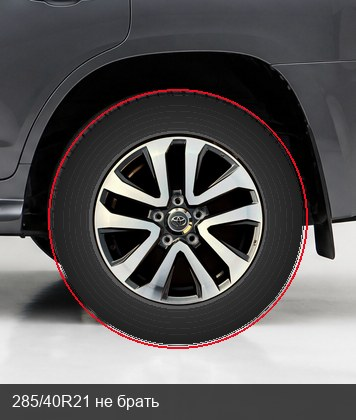
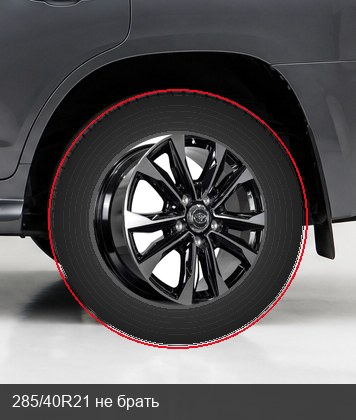
Show a real 21-inch Zumbo face on the LC200 instead of a darkened OEM 20.

Changed region(s): [[0.2472, 0.3095, 0.7416, 0.7429]]

diff --git a/index.html b/index.html
@@ -13,7 +13,7 @@
   <link rel="preconnect" href="https://fonts.googleapis.com">
   <link rel="preconnect" href="https://fonts.gstatic.com" crossorigin>
   <link href="https://fonts.googleapis.com/css2?family=Noto+Sans:wght@400;500;600;700&display=swap" rel="stylesheet">
-  <link rel="stylesheet" href="assets/css/style.css?v=11">
+  <link rel="stylesheet" href="assets/css/style.css?v=12">
 </head>
 <body>
   <a class="skip" href="#main">К содержанию</a>
@@ -112,7 +112,7 @@
           <p class="lead">Двадцать дюймов — штат. Двадцать один — заводская геометрия Lexus LX / части LC200: 8.5J и ET54, не широкая «таз». Боковина 275/50R21 короче завода всего на 5 мм. Для сравнения: 22″ 285/40 теряет 28 мм резины — на 2740 кг это уже жёсткий ход и риск пробоя.</p>
         </div>
         <div class="ba reveal" data-compare style="--pos: 52%">
-          <img class="ba__after" src="assets/img/lc200-compare-21.jpg" alt="Land Cruiser 200 на 21-дюймовых колёсах 275/50R21">
+          <img class="ba__after" src="assets/img/lc200-compare-21.jpg?v=12" alt="Land Cruiser 200 на дисках Zumbo 8.5J×21 и шинах 275/50R21">
           <div class="ba__clip">
             <img class="ba__before" src="assets/img/lc200-compare-20.png" alt="Land Cruiser 200 на штатных 20-дюймовых колёсах">
           </div>
@@ -137,7 +137,7 @@
             <figcaption class="compare__caption">
               <div class="tag">Цель</div>
               <h3>21″ лето</h3>
-              <p>8.5J×21 ET54 · 275/50R21 · диаметр 808 мм · боковина 137,5 мм</p>
+              <p>Zumbo 8.5J×21 · 275/50R21 · диаметр 808 мм · боковина 137,5 мм. Покупка: ET54, не ET45 с фото.</p>
             </figcaption>
           </figure>
         </div>
@@ -197,23 +197,23 @@
 
         <div class="fitment reveal" data-fitment>
           <div class="fitment__disk">
-            <img src="assets/img/stock21-275-50-wheel.jpg" alt="Диск 8.5J×21 ET54 на LC200, 275/50R21">
-            <p>Целевой диск: 8.5J×21 ET54 · 5×150 · DIA 110,1. Шины ниже — на нём. Красное кольцо на арке — контур заводских 285/50R20.</p>
+            <img src="assets/img/stock21-275-50-wheel.jpg?v=12" alt="Zumbo 8.5J×21 на LC200, 275/50R21">
+            <p>На фото — Zumbo Wheels 8.5J×21 5×150 DIA 110,1 (реальный диск 21″, не штатный 20″). Шины ниже — на нём. Красное кольцо — контур завода 285/50R20. Для покупки оставляем ET54, у этого Zumbo вылет ET45.</p>
           </div>
           <div class="fitment__stage">
             <figure class="fitment__car">
-              <img src="assets/img/stock21-275-50.jpg" alt="Серый Land Cruiser 200 на 21-дюймовом диске" data-fitment-car>
+              <img src="assets/img/stock21-275-50.jpg?v=12" alt="Серый Land Cruiser 200 на дисках Zumbo 8.5J×21" data-fitment-car>
             </figure>
             <figure class="fitment__arch">
-              <img src="assets/img/stock21-275-50-wheel.jpg" alt="Задняя арка, 275/50R21 на диске 21 дюйм" data-fitment-wheel>
+              <img src="assets/img/stock21-275-50-wheel.jpg?v=12" alt="Задняя арка, 275/50R21 на диске 21 дюйм" data-fitment-wheel>
             </figure>
           </div>
           <div class="fitment__chips" role="tablist" aria-label="Размер шины на 21 дюйм">
-            <button type="button" class="is-on" role="tab" aria-selected="true" data-car="assets/img/stock21-275-50.jpg" data-wheel="assets/img/stock21-275-50-wheel.jpg" data-alt="Задняя арка, 275/50R21 на 21-дюймовом диске" data-note="Первый размер. Круг 808 мм (+1,9%), боковина 137 мм. Комфорт почти как завод 20″. Индекс 113+.">275/50 комфорт</button>
-            <button type="button" role="tab" aria-selected="false" data-car="assets/img/stock21-285-45.jpg" data-wheel="assets/img/stock21-285-45-wheel.jpg" data-alt="Задняя арка, 285/45R21 на 21-дюймовом диске" data-note="Матч круга: 790 мм (−0,4%), боковина 128 мм. Ширина как у завода. Жёстче 275/50, мягче любого 40-го.">285/45 матч</button>
-            <button type="button" role="tab" aria-selected="false" data-car="assets/img/stock21-295-45.jpg" data-wheel="assets/img/stock21-295-45-wheel.jpg" data-alt="Задняя арка, 295/45R21 на 21-дюймовом диске" data-note="Чуть шире: круг 799 мм (+0,8%), боковина 133 мм. На 8.5J уже тесно — не первый выбор.">295/45 шире</button>
-            <button type="button" role="tab" aria-selected="false" data-car="assets/img/stock21-275-45.jpg" data-wheel="assets/img/stock21-275-45-wheel.jpg" data-alt="Задняя арка, 275/45R21 на 21-дюймовом диске" data-note="Боковина 124 мм, круг 781 мм (−1,5%). Жёстче комфортного 50-го. Имеет смысл только если 275/50 нет в наличии.">275/45 жёстче</button>
-            <button type="button" role="tab" aria-selected="false" data-car="assets/img/stock21-285-40.jpg" data-wheel="assets/img/stock21-285-40-wheel.jpg" data-alt="Задняя арка, 285/40R21 на 21-дюймовом диске" data-note="Не брать. Круг 761 мм (−4%), боковина 114 мм — как у 22″ 285/40. На 2740 кг риск пробоя.">285/40 не брать</button>
+            <button type="button" class="is-on" role="tab" aria-selected="true" data-car="assets/img/stock21-275-50.jpg?v=12" data-wheel="assets/img/stock21-275-50-wheel.jpg?v=12" data-alt="Задняя арка, 275/50R21 на 21-дюймовом диске" data-note="Первый размер. Круг 808 мм (+1,9%), боковина 137 мм. Комфорт почти как завод 20″. Индекс 113+.">275/50 комфорт</button>
+            <button type="button" role="tab" aria-selected="false" data-car="assets/img/stock21-285-45.jpg?v=12" data-wheel="assets/img/stock21-285-45-wheel.jpg?v=12" data-alt="Задняя арка, 285/45R21 на 21-дюймовом диске" data-note="Матч круга: 790 мм (−0,4%), боковина 128 мм. Ширина как у завода. Жёстче 275/50, мягче любого 40-го.">285/45 матч</button>
+            <button type="button" role="tab" aria-selected="false" data-car="assets/img/stock21-295-45.jpg?v=12" data-wheel="assets/img/stock21-295-45-wheel.jpg?v=12" data-alt="Задняя арка, 295/45R21 на 21-дюймовом диске" data-note="Чуть шире: круг 799 мм (+0,8%), боковина 133 мм. На 8.5J уже тесно — не первый выбор.">295/45 шире</button>
+            <button type="button" role="tab" aria-selected="false" data-car="assets/img/stock21-275-45.jpg?v=12" data-wheel="assets/img/stock21-275-45-wheel.jpg?v=12" data-alt="Задняя арка, 275/45R21 на 21-дюймовом диске" data-note="Боковина 124 мм, круг 781 мм (−1,5%). Жёстче комфортного 50-го. Имеет смысл только если 275/50 нет в наличии.">275/45 жёстче</button>
+            <button type="button" role="tab" aria-selected="false" data-car="assets/img/stock21-285-40.jpg?v=12" data-wheel="assets/img/stock21-285-40-wheel.jpg?v=12" data-alt="Задняя арка, 285/40R21 на 21-дюймовом диске" data-note="Не брать. Круг 761 мм (−4%), боковина 114 мм — как у 22″ 285/40. На 2740 кг риск пробоя.">285/40 не брать</button>
           </div>
           <p class="fitment__note" data-fitment-note>Первый размер. Круг 808 мм (+1,9%), боковина 137 мм. Комфорт почти как завод 20″. Индекс 113+.</p>
         </div>
@@ -247,7 +247,7 @@
         <div class="grid-3">
           <article class="card product reveal">
             <figure class="product__viz">
-              <img src="assets/img/stock21-275-50-wheel.jpg" alt="275/50R21 на 21-дюймовом диске LC200, задняя арка">
+              <img src="assets/img/stock21-275-50-wheel.jpg?v=12" alt="275/50R21 на 21-дюймовом диске LC200, задняя арка">
             </figure>
             <div class="tag">Комфорт · первый</div>
             <h3>275/50R21 113V+</h3>
@@ -278,7 +278,7 @@
           </article>
           <article class="card product reveal">
             <figure class="product__viz">
-              <img src="assets/img/stock21-285-45-wheel.jpg" alt="285/45R21 на 21-дюймовом диске LC200, задняя арка">
+              <img src="assets/img/stock21-285-45-wheel.jpg?v=12" alt="285/45R21 на 21-дюймовом диске LC200, задняя арка">
             </figure>
             <div class="tag">Геометрия</div>
             <h3>285/45R21 113 XL</h3>
@@ -309,7 +309,7 @@
           </article>
           <article class="card product reveal">
             <figure class="product__viz">
-              <img src="assets/img/stock21-295-45-wheel.jpg" alt="295/45R21 на 21-дюймовом диске LC200, задняя арка">
+              <img src="assets/img/stock21-295-45-wheel.jpg?v=12" alt="295/45R21 на 21-дюймовом диске LC200, задняя арка">
             </figure>
             <div class="tag">Шире · не первый</div>
             <h3>295/45R21 113 XL</h3>
@@ -344,7 +344,7 @@
         <div class="grid-3">
           <article class="card product reveal">
             <figure class="product__viz">
-              <img src="assets/img/stock21-275-50-wheel.jpg" alt="Bridgestone Alenza 001 275/50R21 на LC200">
+              <img src="assets/img/stock21-275-50-wheel.jpg?v=12" alt="Bridgestone Alenza 001 275/50R21 на LC200">
             </figure>
             <div class="tag">Рекомендуем · 113V</div>
             <h3>Bridgestone Alenza 001</h3>
@@ -375,7 +375,7 @@
           </article>
           <article class="card product reveal">
             <figure class="product__viz">
-              <img src="assets/img/stock21-275-50-wheel.jpg" alt="Hankook Ventus S1 evo3 SUV 275/50R21 на LC200">
+              <img src="assets/img/stock21-275-50-wheel.jpg?v=12" alt="Hankook Ventus S1 evo3 SUV 275/50R21 на LC200">
             </figure>
             <div class="tag">Разумный · 113W</div>
             <h3>Hankook Ventus S1 evo3 SUV</h3>
@@ -406,7 +406,7 @@
           </article>
           <article class="card product reveal">
             <figure class="product__viz">
-              <img src="assets/img/stock21-275-50-wheel.jpg" alt="Michelin Pilot Sport 4 SUV 275/50R21 на LC200">
+              <img src="assets/img/stock21-275-50-wheel.jpg?v=12" alt="Michelin Pilot Sport 4 SUV 275/50R21 на LC200">
             </figure>
             <div class="tag">Спорт · 113V</div>
             <h3>Michelin Pilot Sport 4 SUV</h3>
@@ -445,7 +445,7 @@
         <div class="grid-3">
           <article class="card product reveal">
             <figure class="product__viz">
-              <img src="assets/img/stock21-285-45-wheel.jpg" alt="Sailun Erange Premium 285/45R21 на LC200">
+              <img src="assets/img/stock21-285-45-wheel.jpg?v=12" alt="Sailun Erange Premium 285/45R21 на LC200">
             </figure>
             <div class="tag">Китай · матч 113</div>
             <h3>Sailun Erange Premium</h3>
@@ -476,7 +476,7 @@
           </article>
           <article class="card product reveal">
             <figure class="product__viz">
-              <img src="assets/img/stock21-285-45-wheel.jpg" alt="Triangle TH202 285/45R21 на LC200">
+              <img src="assets/img/stock21-285-45-wheel.jpg?v=12" alt="Triangle TH202 285/45R21 на LC200">
             </figure>
             <div class="tag">Китай · 113W</div>
             <h3>Triangle TH202</h3>
@@ -507,7 +507,7 @@
           </article>
           <article class="card product reveal">
             <figure class="product__viz">
-              <img src="assets/img/stock21-285-40-wheel.jpg" alt="285/40R21 на 21-дюймовом диске LC200 — не брать">
+              <img src="assets/img/stock21-285-40-wheel.jpg?v=12" alt="285/40R21 на 21-дюймовом диске LC200 — не брать">
             </figure>
             <div class="tag">Не брать</div>
             <h3>285/40R21 и индекс 109</h3>
@@ -712,6 +712,33 @@
               <a href="https://www.kolesa-darom.ru/catalog/avto/diski/replay/lx105/" target="_blank" rel="noopener">Колёса Даром</a>
               <a href="https://www.4tochki.ru/catalog/disks/replay/" target="_blank" rel="noopener">4точки</a>
               <a class="ghost" href="https://www.avito.ru/all/zapchasti_i_aksessuary/shiny_diski_i_kolesa-ASgBAgICAUQKJg?q=replica+8.5x21+5x150" target="_blank" rel="noopener">Авито</a>
+            </div>
+          </article>
+          <article class="card product reveal">
+            <div class="tag">Визуал сайта</div>
+            <h3>Zumbo Wheels SD 0869</h3>
+            <p class="spec">8.5×21 5×150 ET45 DIA 110,1 · MB</p>
+            <div class="proscons">
+              <div>
+                <p class="proscons__h">Плюсы</p>
+                <ul>
+                  <li>Реальный диск 21″: серебро и чёрный, колпак Toyota</li>
+                  <li>PCD 5×150 и DIA 110,1 без кольца</li>
+                  <li>Полка 8.5J под 275/50 и 285/45</li>
+                </ul>
+              </div>
+              <div>
+                <p class="proscons__h is-minus">Минусы</p>
+                <ul>
+                  <li>ET45, не заводской 21″ ET54 — сильнее выпирает</li>
+                  <li>Реплика, не flow forming RST</li>
+                  <li>Посадку гайки спросить у продавца</li>
+                </ul>
+              </div>
+            </div>
+            <div class="buy-links">
+              <a href="https://www.avito.ru/moskva/zapchasti_i_aksessuary/litye_diski_zumbo_wheels_8.5r21_5150_8152727538" target="_blank" rel="noopener">Авито</a>
+              <a class="ghost" href="#compare">Как выглядит на LC200</a>
             </div>
           </article>
           <article class="card product reveal">
@@ -1125,6 +1152,6 @@
     </div>
   </footer>
 
-  <script src="assets/js/main.js?v=11"></script>
+  <script src="assets/js/main.js?v=12"></script>
 </body>
 </html>

diff --git a/scripts/render_compare_21.py b/scripts/render_compare_21.py
@@ -1,52 +1,81 @@
-"""Render 21-inch wheels on the LC200 side view for the 20 vs 21 compare."""
+"""Render 21-inch Zumbo face + tire sizes on the LC200 side view."""
 from __future__ import annotations
 
+from pathlib import Path
+
+import cv2
 import numpy as np
-from PIL import Image, ImageDraw, ImageFont, ImageEnhance
+from PIL import Image, ImageDraw, ImageEnhance, ImageFont
 
 from render_stock20_fitment import (
     OUT_DIR,
     RIM_MM,
+    ROOT,
     SRC_CAR,
-    SRC_OEM,
     STOCK_OD,
     WHEELS,
     clip_below_ground,
-    extract_oem_face,
     ground_y,
     make_tire_layer,
     paste_center,
 )
 
+SRC_ZUMBO = ROOT / "assets/img/zumbo-21-wheel.jpg"
+
 # 21" rim is 21/20 of the 20" face.
 RIM21 = 21 / 20
 
 SIZES = [
-    {"id": "275-50", "label": "275/50R21 комфорт", "od": 808.0, "side": 137.5, "dark": True, "tread": "ht"},
-    {"id": "285-45", "label": "285/45R21 матч", "od": 790.0, "side": 128.0, "dark": True, "tread": "ht"},
-    {"id": "295-45", "label": "295/45R21 шире", "od": 799.0, "side": 133.0, "dark": True, "tread": "ht"},
-    {"id": "275-45", "label": "275/45R21 жёстче", "od": 781.0, "side": 124.0, "dark": True, "tread": "ht"},
-    {"id": "285-40", "label": "285/40R21 не брать", "od": 761.0, "side": 114.0, "dark": True, "tread": "ht"},
+    {"id": "275-50", "label": "275/50R21 комфорт", "od": 808.0, "side": 137.5, "tread": "ht"},
+    {"id": "285-45", "label": "285/45R21 матч", "od": 790.0, "side": 128.0, "tread": "ht"},
+    {"id": "295-45", "label": "295/45R21 шире", "od": 799.0, "side": 133.0, "tread": "ht"},
+    {"id": "275-45", "label": "275/45R21 жёстче", "od": 781.0, "side": 124.0, "tread": "ht"},
+    {"id": "285-40", "label": "285/40R21 не брать", "od": 761.0, "side": 114.0, "tread": "ht"},
 ]
 
 
-def darken_face(face: Image.Image) -> Image.Image:
-    """RST-style black machined face while keeping the Toyota cap readable."""
-    rgb = face.convert("RGBA")
-    arr = np.array(rgb).astype(np.float32)
-    lum = arr[..., 0] * 0.3 + arr[..., 1] * 0.5 + arr[..., 2] * 0.2
-    # Keep bright machined highlights, crush the grey pockets to charcoal.
-    mix = np.clip((lum - 90) / 90, 0, 1)[..., None]
-    charcoal = arr[..., :3] * 0.42
-    silver = arr[..., :3] * 0.92
-    arr[..., :3] = charcoal * (1 - mix) + silver * mix
-    out = Image.fromarray(np.clip(arr, 0, 255).astype(np.uint8), "RGBA")
-    return ImageEnhance.Contrast(out).enhance(1.12)
+def extract_zumbo_face(path: Path) -> Image.Image:
+    """Circular face of the 21\" Zumbo product shot (studio, white ground)."""
+    bgr = cv2.imread(str(path))
+    if bgr is None:
+        raise FileNotFoundError(path)
+    h, w = bgr.shape[:2]
+    gray = cv2.cvtColor(bgr, cv2.COLOR_BGR2GRAY)
+    blur = cv2.GaussianBlur(gray, (5, 5), 0)
+    circles = cv2.HoughCircles(
+        blur,
+        cv2.HOUGH_GRADIENT,
+        dp=1.1,
+        minDist=80,
+        param1=90,
+        param2=35,
+        minRadius=int(w * 0.35),
+        maxRadius=int(w * 0.48),
+    )
+    if circles is None:
+        raise RuntimeError(f"no rim circle in {path}")
+    cx0, cy0 = w / 2.0, h / 2.0
+    cx, cy, r = min(
+        circles[0],
+        key=lambda c: (float(c[0]) - cx0) ** 2 + (float(c[1]) - cy0) ** 2,
+    )
+    cx, cy, r = float(cx), float(cy), float(r) - 1.8
+    r = min(r, cx - 1, cy - 1, w - cx - 1, h - cy - 1)
+
+    rgb = cv2.cvtColor(bgr, cv2.COLOR_BGR2RGB)
+    pil = Image.fromarray(rgb).convert("RGBA")
+    yy, xx = np.ogrid[:h, :w]
+    rr = np.sqrt((xx - cx) ** 2 + (yy - cy) ** 2)
+    alpha = np.clip((r - 0.4 - rr) * 210, 0, 255).astype(np.uint8)
+    pil.putalpha(Image.fromarray(alpha, "L"))
+    box = (int(cx - r - 1), int(cy - r - 1), int(cx + r + 1), int(cy + r + 1))
+    face = pil.crop(box)
+    face = ImageEnhance.Contrast(face).enhance(1.16)
+    return ImageEnhance.Brightness(face).enhance(1.04)
 
 
-def render_21(car: Image.Image, oem: Image.Image, spec: dict) -> Image.Image:
+def render_21(car: Image.Image, face_src: Image.Image, spec: dict) -> Image.Image:
     out = car.convert("RGBA")
-    face_src = darken_face(oem) if spec.get("dark") else oem
     scale = spec["od"] / STOCK_OD
     for cx, cy, rim20 in WHEELS:
         rim_r = rim20 * RIM21
@@ -90,11 +119,11 @@ def crop_rear(img: Image.Image, spec: dict) -> Image.Image:
 
 
 def main() -> None:
-    oem = extract_oem_face(SRC_OEM)
+    face = extract_zumbo_face(SRC_ZUMBO)
     car = Image.open(SRC_CAR)
     comfort = None
     for spec in SIZES:
-        full = render_21(car, oem, spec)
+        full = render_21(car, face, spec)
         full_path = OUT_DIR / f"stock21-{spec['id']}.jpg"
         crop_path = OUT_DIR / f"stock21-{spec['id']}-wheel.jpg"
         full.save(full_path, quality=88, optimize=True)

diff --git a/.ai/CONTEXT.md b/.ai/CONTEXT.md
@@ -1,6 +1,6 @@
 # LC200 — колёса 20 → 21
 
-context_version: 10
+context_version: 11
 updated: 2026-08-27
 
 ## Проект
@@ -27,6 +27,10 @@ updated: 2026-08-27
 - Шире: 295/45R21 на 8.5J тесно
 - Не брать: 285/40R21, 275/45 без нужды, индекс 109
 
+## Визуал 21″
+
+На фото машины — **Zumbo Wheels SD 0869** 8.5×21 5×150 ET45 (серебро/чёрный), не затемнённый штатный 20″. Покупка по-прежнему RST ET54: ET45 сильнее выпирает.
+
 ## Лучший комплект
 
 RST R2107FF 8.5×21 ET54 + Bridgestone Alenza 001 275/50R21 113V
@@ -44,4 +48,4 @@ RST R2107FF 8.5×21 ET54 + Bridgestone Alenza 001 275/50R21 113V
 ## Статус
 
 Сайт: https://puholet-sketch.github.io/LC200/
-Слайдер 20/21. Обзор шин `#tires`. Комплект `#kit`. Рынок `#buy`.
+Слайдер 20/21 с лицом Zumbo 21″. Обзор шин `#tires`. Комплект `#kit`. Рынок `#buy`.

diff --git a/.ai/INDEX.md b/.ai/INDEX.md
@@ -12,7 +12,8 @@
 - `assets/img/lc200-compare-20.png` — вид 20″
 - `assets/img/lc200-compare-21.jpg` — вид 21″ 275/50
 - `assets/img/stock21-*.jpg` — 21″ размеры на LC200 (50/45/40)
-- `scripts/render_compare_21.py` — сборка визуала 21″
+- `scripts/render_compare_21.py` — сборка визуала 21″ с лицом Zumbo
+- `assets/img/zumbo-21-wheel.jpg` — исходник Zumbo 8.5J×21 (Avito)
 - `assets/img/toyota-mark.svg` — трёховальная эмблема
 - `assets/img/favicon.svg` — фавикон красным mark
 - `assets/img/lug-nut-oem.png` — штатная mag-seat
